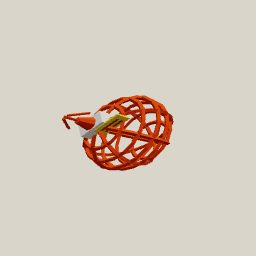
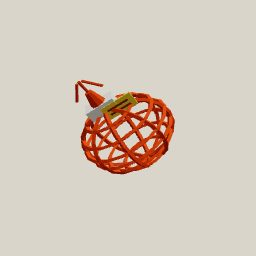
Gegenstände: Feinschliff (Küchenrolle Teile auf dem Tuch, Obstnetz weniger gekippt, Alufolie-Knäuel auf dem Blatt); Vorschaubilder neu

Changed region(s): [[0.2188, 0.3125, 0.6875, 0.6875]]

diff --git a/components/game/models/bio.tsx b/components/game/models/bio.tsx
@@ -606,11 +606,11 @@ export function renderBioModel(key: string, name: string) {
         <group rotation={[0.85, 0.2, -0.08]}>
           <Part geo={G.box(0.7, 0.03, 0.5, 0.01)} color="#FFF9EE" roughness={1} />
           {/* umgeknicktes Eck rechts vorn */}
-          <Part geo={G.box(0.16, 0.02, 0.16, 0.006)} pos={[0.3, 0.045, 0.2]} rot={[0.2, 0.7, 0.35]} color="#F1E8D6" roughness={1} />
+          <Part geo={G.box(0.16, 0.02, 0.16, 0.006)} pos={[0.3, 0.03, 0.2]} rot={[0.2, 0.7, 0.35]} color="#F1E8D6" roughness={1} />
           {/* dünner Rand in Blau (viele Küchentücher haben eine Randlinie) */}
-          <Part geo={G.box(0.7, 0.004, 0.014, 0.001)} pos={[0, 0.032, -0.23]} basic color="#93C5FD" />
-          <Part geo={G.box(0.7, 0.004, 0.014, 0.001)} pos={[0, 0.032, 0.0]} basic color="#BFDBFE" />
-          {/* Prägepunkte: Raster aus 5 × 4 flachen Kügelchen auf dem Blatt (Oberseite y ≈ 0,036) */}
+          <Part geo={G.box(0.7, 0.004, 0.014, 0.001)} pos={[0, 0.018, -0.23]} basic color="#93C5FD" />
+          <Part geo={G.box(0.7, 0.004, 0.014, 0.001)} pos={[0, 0.018, 0.0]} basic color="#BFDBFE" />
+          {/* Prägepunkte: Raster aus 5 × 4 flachen Kügelchen auf dem Blatt (Oberseite y ≈ 0,015) */}
           {Array.from({ length: 20 }, (_, k) => {
             const cx = (k % 5) * 0.13 - 0.26;
             const cz = Math.floor(k / 5) * 0.1 - 0.09;
@@ -618,7 +618,7 @@ export function renderBioModel(key: string, name: string) {
               <Part
                 key={k}
                 geo={G.ball(0.014, 6, 4)}
-                pos={[cx + (Math.floor(k / 5) % 2) * 0.06, 0.04, cz]}
+                pos={[cx + (Math.floor(k / 5) % 2) * 0.06, 0.02, cz]}
                 scale={[1, 0.5, 1]}
                 color="#E4DACA"
                 roughness={1}
@@ -630,14 +630,14 @@ export function renderBioModel(key: string, name: string) {
             <Part
               key={`p${k}`}
               geo={G.box(0.03, 0.006, 0.008, 0.002)}
-              pos={[-0.3 + k * 0.1, 0.04, 0.21]}
+              pos={[-0.3 + k * 0.1, 0.02, 0.21]}
               basic
               color="#B9AD97"
             />
           ))}
           {/* Fleck: roter Klecks mit hellem Hof, flach auf dem Tuch */}
-          <Part geo={G.ball(0.11, 10, 6)} pos={[0.1, 0.04, -0.04]} scale={[1.2, 0.12, 0.9]} color="#F2B38A" roughness={1} />
-          <Part geo={G.ball(0.07, 10, 6)} pos={[0.1, 0.05, -0.04]} scale={[1.2, 0.12, 0.9]} color="#C2391B" roughness={1} />
+          <Part geo={G.ball(0.11, 10, 6)} pos={[0.1, 0.02, -0.04]} scale={[1.2, 0.12, 0.9]} color="#F2B38A" roughness={1} />
+          <Part geo={G.ball(0.07, 10, 6)} pos={[0.1, 0.028, -0.04]} scale={[1.2, 0.12, 0.9]} color="#C2391B" roughness={1} />
           {/* Zusammengeknüllt daneben */}
           <Part geo={G.crumple(0.13, 0.28, 17, 1)} pos={[-0.3, 0.1, -0.12]} flat color="#FBF1DF" roughness={1} />
         </group>

diff --git a/components/game/models-extra.tsx b/components/game/models-extra.tsx
@@ -526,7 +526,7 @@ export function renderExtraModel(key: string, name = ""): ReactElement | null {
       // Längsschnüre: Ellipse 0,19 breit / 0,23 hoch; Querringe liegen darauf
       // (Radius = 0,19 · √(1 − (y/0,23)²))
       return (
-        <group rotation={[1.0, 0.4, 0.5]} position={[0, -0.03, 0]} scale={[1.15, 0.85, 0.8]}>
+        <group rotation={[0.6, 0.4, 0.4]} position={[0, -0.03, 0]} scale={[1.15, 0.85, 0.8]}>
           {(
             [
               [-0.19, 0.105],

diff --git a/components/game/models/gelber-sack.tsx b/components/game/models/gelber-sack.tsx
@@ -43,7 +43,7 @@ export function renderGelberSackModel(key: string, name: string) {
           {/* kleines Knäuel in der Ecke */}
           <Part
             geo={G.crumple(0.11, 1.0, 11, 1)}
-            pos={[0.3, 0.12, 0.3]}
+            pos={[0.22, 0.1, 0.2]}
             flat
             color="#F2F5FA"
             roughness={0.3}
